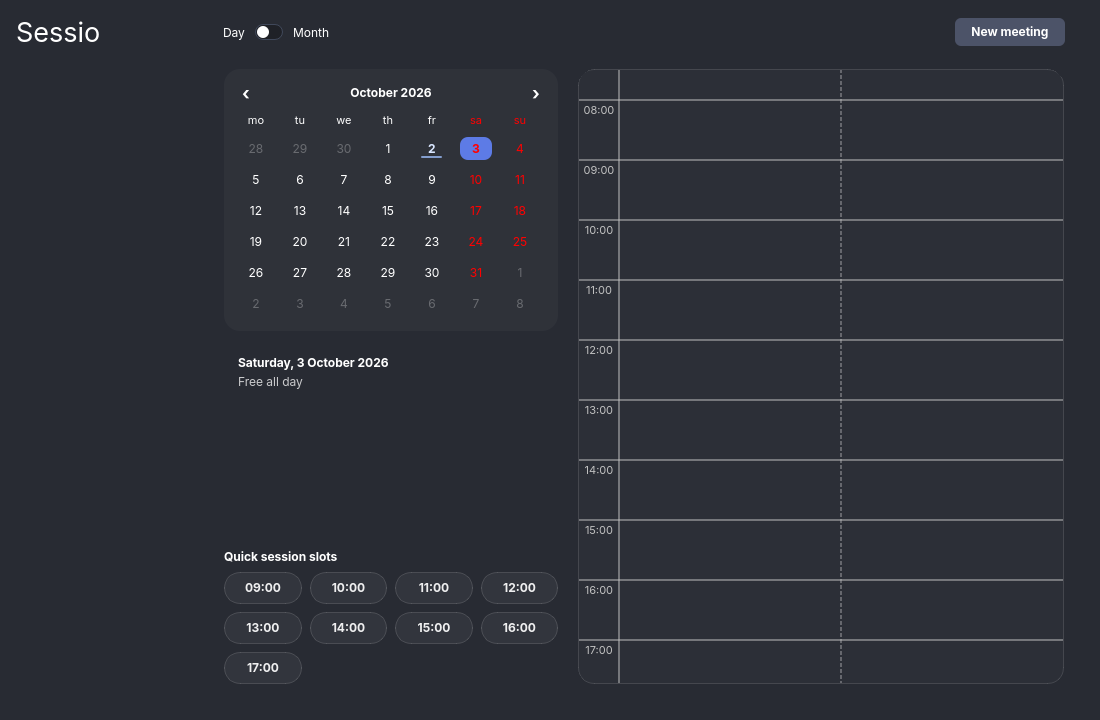
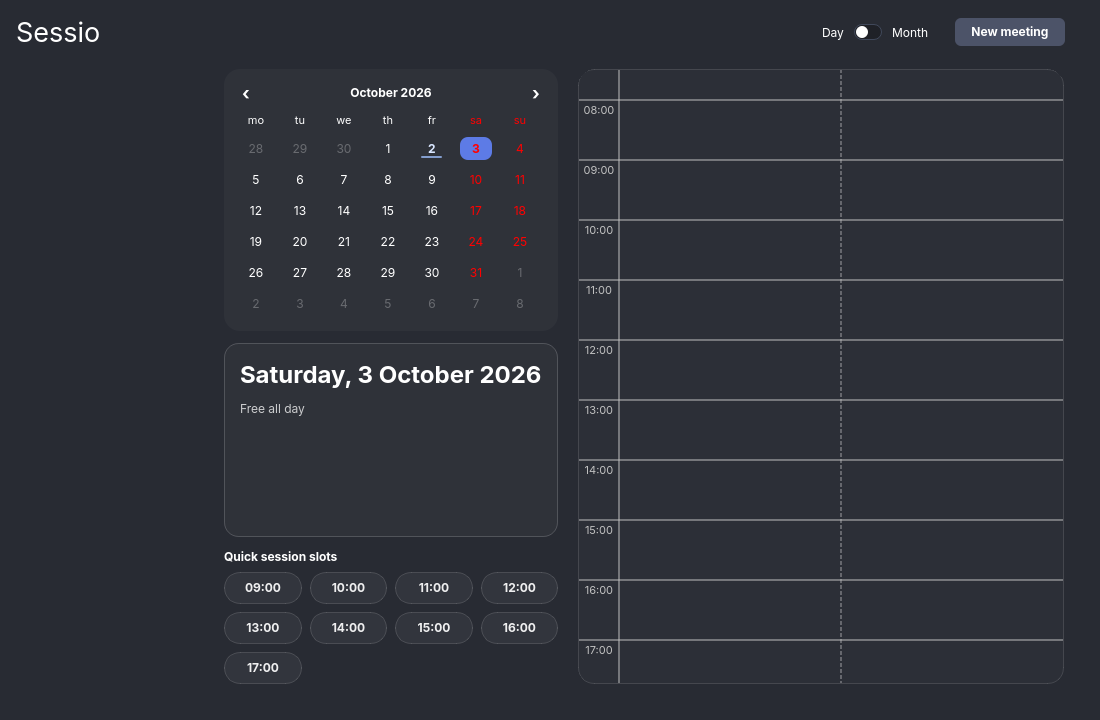
Fix live-app layout defects: header group, one info card, month grid height (#102)
Header controls sit together at the right of the top row; month names are
three letters; the month grid fills the centre height (rows 112-260 px) and
its weekday labels align with the day numbers; day summary and meeting
inspector share one bordered card with the selected date as heading.

Changed region(s): [[0.2164, 0.4889, 0.4945, 0.5806], [0.1855, 0.0306, 0.3091, 0.0611], [0.7418, 0.0306, 0.8345, 0.0611]]

diff --git a/src/pages/event_info_page/event_info.cpp b/src/pages/event_info_page/event_info.cpp
@@ -9,6 +9,7 @@
 #include <algorithm>
 #include <QIcon>
 #include <QMessageBox>
+#include <QPainter>
 #include <QSize>
 #include <QTextCharFormat>
 #include <QTimeZone>
@@ -20,6 +21,23 @@
 Q_LOGGING_CATEGORY(logEventInfo, "pcm.EventInfo")
 
 namespace {
+// Rounded bordered card; colours come from the live palette.
+class InfoPanelCard final : public QWidget {
+public:
+  using QWidget::QWidget;
+
+protected:
+  void paintEvent(QPaintEvent *) override {
+    QPainter painter(this);
+    painter.setRenderHint(QPainter::Antialiasing);
+    auto border = palette().color(QPalette::Text);
+    border.setAlpha(46);
+    painter.setPen(QPen(border, 1));
+    painter.setBrush(QColor(255, 255, 255, 8));
+    painter.drawRoundedRect(QRectF(rect()).adjusted(0.5, 0.5, -0.5, -0.5), 14, 14);
+  }
+};
+
 bool sameOccurrence(const DuckEvent &a, const DuckEvent &b) {
   if (a.series_id && a.original_occurrence_start) {
     return a.series_id == b.series_id &&
@@ -143,6 +161,10 @@ QEventInfoPage::QEventInfoPage(QTimelineModel *model,
   auto *header = new QHBoxLayout(mHeaderControls);
   header->setContentsMargins(0, 0, 0, 0);
   header->setSpacing(10);
+  // Fill the host row and push the group to its right edge: the stretch comes
+  // first, so Day|Month and "New meeting" stay together.
+  mHeaderControls->setSizePolicy(QSizePolicy::Expanding, QSizePolicy::Preferred);
+  header->addStretch(1);
   header->addWidget(new QLabel(tr("Day"), mHeaderControls));
   mViewSwitch = new oclero::qlementine::Switch(mHeaderControls);
   mViewSwitch->setObjectName(QStringLiteral("calendarViewSwitch"));
@@ -151,7 +173,7 @@ QEventInfoPage::QEventInfoPage(QTimelineModel *model,
   mViewSwitch->setSizePolicy(QSizePolicy::Fixed, QSizePolicy::Fixed);
   header->addWidget(mViewSwitch);
   header->addWidget(new QLabel(tr("Month"), mHeaderControls));
-  header->addStretch(1);
+  header->addSpacing(16);
   mCreateEventButton = new QPushButton(tr("New meeting"), mHeaderControls);
   mCreateEventButton->setObjectName(QStringLiteral("newCalendarEvent"));
   mCreateEventButton->setIcon(QIcon(":/icons/calendar-plus-solid-full.svg"));
@@ -191,15 +213,26 @@ QEventInfoPage::QEventInfoPage(QTimelineModel *model,
                                               mMonthPicker->minimumHeight()));
   leftLayout->addWidget(mCalendarCardStack);
 
-  mInfoStack = new QStackedWidget(left);
+  // One bordered card hosts both pages (day info / meeting info).
+  auto *infoCard = new InfoPanelCard(left);
+  infoCard->setObjectName(QStringLiteral("infoPanelCard"));
+  infoCard->setSizePolicy(QSizePolicy::Expanding, QSizePolicy::Expanding);
+  auto *infoCardLayout = new QVBoxLayout(infoCard);
+  infoCardLayout->setContentsMargins(16, 16, 16, 16);
+  mInfoStack = new QStackedWidget(infoCard);
   mInfoStack->setObjectName(QStringLiteral("calendarInfoStack"));
-  auto *summaryPage = new QWidget(mInfoStack);
-  auto *summaryLayout = new QVBoxLayout(summaryPage);
-  summaryLayout->setContentsMargins(0, 0, 0, 0);
-  mDaySummaryWidget = new DaySummaryWidget(summaryPage);
-  summaryLayout->addWidget(mDaySummaryWidget);
-  summaryLayout->addStretch(1);
-  mInfoStack->addWidget(summaryPage);
+  infoCardLayout->addWidget(mInfoStack);
+  auto *summaryScroll = new QScrollArea(mInfoStack);
+  summaryScroll->setObjectName(QStringLiteral("calendarDayInfoScroll"));
+  summaryScroll->setWidgetResizable(true);
+  summaryScroll->setFrameShape(QFrame::NoFrame);
+  summaryScroll->setHorizontalScrollBarPolicy(Qt::ScrollBarAlwaysOff);
+  mDaySummaryWidget = new DaySummaryWidget(summaryScroll);
+  summaryScroll->setWidget(mDaySummaryWidget);
+  // The card provides the background; scroll viewports must not paint their own.
+  summaryScroll->viewport()->setAutoFillBackground(false);
+  mDaySummaryWidget->setAutoFillBackground(false);
+  mInfoStack->addWidget(summaryScroll);
   mInspectorScroll = new QScrollArea(mInfoStack);
   mInspectorScroll->setObjectName(QStringLiteral("calendarInspectorScroll"));
   mInspectorScroll->setWidgetResizable(true);
@@ -212,8 +245,10 @@ QEventInfoPage::QEventInfoPage(QTimelineModel *model,
   mInspectorLayout->setSpacing(8);
   mInspectorLayout->addStretch(1);
   mInspectorScroll->setWidget(inspectorContent);
+  mInspectorScroll->viewport()->setAutoFillBackground(false);
+  inspectorContent->setAutoFillBackground(false);
   mInfoStack->addWidget(mInspectorScroll);
-  leftLayout->addWidget(mInfoStack, 1);
+  leftLayout->addWidget(infoCard, 1);
   mQuickSlotsWidget = new QuickSlotsWidget(left);
   leftLayout->addWidget(mQuickSlotsWidget);
   body->addWidget(left);

diff --git a/test/calendar_layout_tests.cpp b/test/calendar_layout_tests.cpp
@@ -20,6 +20,7 @@
 #include <QScrollArea>
 #include <QStackedWidget>
 #include <QLabel>
+#include <QHBoxLayout>
 #include <QImage>
 #include "rounded_calendar_widget.h"
 #include "month_picker_widget.h"
@@ -627,6 +628,64 @@ TEST_F(CalendarLayoutTest, FirstMeetingOfTheDayIsScrolledIntoView) {
   ASSERT_GT(bar->maximum(), 0);
   EXPECT_LE(bar->value(), 16 * 60);
   EXPECT_GE(bar->value() + view->viewport()->height(), 16 * 60);
+}
+TEST_F(CalendarLayoutTest, HeaderControlsSitTogetherAtTheRightOfTheirHost) {
+  QEventInfoPage page(model.get(), nullptr, nullptr);
+  QWidget host;
+  auto *layout = new QHBoxLayout(&host);
+  layout->setContentsMargins(19, 0, 19, 0);
+  page.headerControls()->setParent(&host);
+  layout->addWidget(page.headerControls());
+  host.resize(1000, 40);
+  host.show();
+  QApplication::processEvents();
+  auto *toggle = page.headerControls()->findChild<QWidget *>("calendarViewSwitch");
+  auto *button = page.headerControls()->findChild<QWidget *>("newCalendarEvent");
+  const auto toggleLeft = toggle->mapTo(&host, QPoint(0, 0)).x();
+  const auto buttonRight = button->mapTo(&host, QPoint(button->width(), 0)).x();
+  EXPECT_GE(buttonRight, host.width() - 19 - 2);
+  EXPECT_GT(toggleLeft, host.width() - 450); // right next to the button, not at the left
+}
+TEST_F(CalendarLayoutTest, MonthPickerUsesConsistentThreeLetterNames) {
+  MonthPickerWidget picker;
+  for (auto *tile : picker.findChildren<QToolButton *>("monthPickerTile")) {
+    EXPECT_EQ(tile->text().size(), 3) << tile->text().toStdString();
+    EXPECT_FALSE(tile->text().endsWith('.'));
+  }
+}
+TEST_F(CalendarLayoutTest, InfoPanelIsOneCardWithTheSelectedDateAsHeading) {
+  QEventInfoPage page(model.get(), nullptr, nullptr);
+  page.resize(1275, 900);
+  page.show();
+  page.setMonthView(true);
+  QApplication::processEvents();
+  auto *card = page.findChild<QWidget *>("infoPanelCard");
+  auto *info = page.findChild<QStackedWidget *>("calendarInfoStack");
+  ASSERT_NE(card, nullptr);
+  EXPECT_TRUE(card->isAncestorOf(info));
+  auto *heading = page.findChild<QLabel *>("daySummaryDate");
+  ASSERT_NE(heading, nullptr);
+  const auto date = QDate::currentDate().addDays(1);
+  auto *month = page.findChild<MonthCalendarWidget *>();
+  emit month->dateSelected(date);
+  auto expected = QLocale().toString(date, QLocale::LongFormat);
+  expected[0] = expected.at(0).toUpper();
+  EXPECT_EQ(heading->text(), expected);
+  page.findChild<QToolButton *>("monthPickerNextYear")->click();
+  for (auto *tile : page.findChildren<QToolButton *>("monthPickerTile"))
+    if (tile->property("calendarMonth").toInt() == 5) tile->click();
+  EXPECT_TRUE(heading->text().contains(QLocale().standaloneMonthName(5, QLocale::LongFormat)) ||
+              heading->text().contains(QLocale().monthName(5, QLocale::LongFormat)));
+}
+TEST_F(CalendarLayoutTest, MonthGridFillsTheCentreHeight) {
+  QEventInfoPage page(model.get(), nullptr, nullptr);
+  page.resize(1275, 1290);
+  page.show();
+  page.setMonthView(true);
+  QApplication::processEvents();
+  auto *month = page.findChild<MonthCalendarWidget *>();
+  auto *centre = page.findChild<QStackedWidget *>("calendarCenterStack");
+  EXPECT_GE(month->height(), centre->height() - 4);
 }
 } // namespace
 int main(int argc, char **argv) {

diff --git a/src/pages/event_info_page/day_summary_widget.cpp b/src/pages/event_info_page/day_summary_widget.cpp
@@ -8,20 +8,16 @@
 
 DaySummaryWidget::DaySummaryWidget(QWidget *parent) : QWidget(parent) {
   setObjectName("daySummaryCard");
-  setStyleSheet(
-      "#daySummaryCard {"
-      " background: rgba(255, 255, 255, 0.05);"
-      " border: 1px solid rgba(255, 255, 255, 0.10);"
-      " border-radius: 14px;"
-      "}");
-
   auto *layout = new QVBoxLayout(this);
-  layout->setContentsMargins(14, 12, 14, 12);
-  layout->setSpacing(4);
+  layout->setContentsMargins(0, 0, 0, 0);
+  layout->setSpacing(6);
 
   mDateLabel = new QLabel(this);
+  mDateLabel->setObjectName("daySummaryDate");
+  mDateLabel->setWordWrap(true);
   QFont dateFont = mDateLabel->font();
   dateFont.setBold(true);
+  dateFont.setPointSize(18);
   mDateLabel->setFont(dateFont);
 
   mCountsLabel = new QLabel(this);
@@ -34,6 +30,7 @@ DaySummaryWidget::DaySummaryWidget(QWidget *parent) : QWidget(parent) {
   mFreeWindowLabel->setStyleSheet("color: rgba(255, 255, 255, 0.65);");
 
   layout->addWidget(mDateLabel);
+  layout->addSpacing(6);
   layout->addWidget(mCountsLabel);
   layout->addWidget(mBusyLabel);
   layout->addWidget(mNextSessionLabel);
@@ -56,7 +53,11 @@ void DaySummaryWidget::clearMiniList() {
 void DaySummaryWidget::setSummary(const pcm::recurrence::DaySummary &summary) {
   clearMiniList();
 
-  mDateLabel->setText(QLocale().toString(summary.date, QLocale::LongFormat));
+  auto heading = QLocale().toString(summary.date, QLocale::LongFormat);
+  if (!heading.isEmpty()) {
+    heading[0] = heading.at(0).toUpper(); // "пятница" -> "Пятница"
+  }
+  mDateLabel->setText(heading);
 
   if (!summary.hasSessions) {
     mCountsLabel->setText(tr("Free all day"));

diff --git a/src/pages/event_info_page/qevent_details_widget.cpp b/src/pages/event_info_page/qevent_details_widget.cpp
@@ -504,7 +504,7 @@ void QEventDetailsWidget::setInspectorMode(bool enabled) {
       button->setSizePolicy(QSizePolicy::Expanding, QSizePolicy::Fixed);
       button->setMinimumHeight(32);
     }
-    mUI->verticalLayout->setContentsMargins(16, 16, 16, 16);
+    mUI->verticalLayout->setContentsMargins(0, 0, 0, 0);
     summary->setSpacing(4);
     static_cast<QBoxLayout *>(mMeetingActionsWidget->layout())->setDirection(QBoxLayout::TopToBottom);
     // Series actions can have long translated labels. Stacking keeps all of
@@ -574,20 +574,6 @@ void QEventDetailsWidget::refreshInspector() {
   // The main action gets the primary look.
   mCopyMeetingInviteButton->setDefault(event.is_online);
   mUI->mChangeButton->setDefault(!event.is_online);
-}
-
-void QEventDetailsWidget::paintEvent(QPaintEvent *event) {
-  QWidget::paintEvent(event);
-  if (!mInspectorMode) {
-    return;
-  }
-  QPainter painter(this);
-  painter.setRenderHint(QPainter::Antialiasing);
-  auto border = palette().color(QPalette::Text);
-  border.setAlpha(46);
-  painter.setPen(QPen(border, 1));
-  painter.setBrush(QColor(255, 255, 255, 8));
-  painter.drawRoundedRect(QRectF(rect()).adjusted(0.5, 0.5, -0.5, -0.5), 14, 14);
 }
 
 void QEventDetailsWidget::initConnections() {

diff --git a/src/pages/event_info_page/month_picker_widget.cpp b/src/pages/event_info_page/month_picker_widget.cpp
@@ -100,6 +100,15 @@ protected:
     painter.drawText(rect(), Qt::AlignCenter, text());
   }
 };
+
+// Consistent three-letter names ("Sep", not "Sept"; "сен", not "сент.").
+QString shortMonthName(const QLocale &locale, const int month) {
+  auto name = locale.standaloneMonthName(month, QLocale::ShortFormat);
+  if (name.endsWith(QLatin1Char('.')) || name.size() != 3) {
+    name = locale.standaloneMonthName(month, QLocale::LongFormat).left(3);
+  }
+  return name.isEmpty() ? name : name.left(1).toUpper() + name.mid(1);
+}
 } // namespace
 
 MonthPickerWidget::MonthPickerWidget(QWidget *parent) : QWidget(parent) {
@@ -163,7 +172,7 @@ void MonthPickerWidget::refreshLabels() {
   const auto today = QDate::currentDate();
   for (int month = 1; month <= 12; ++month) {
     auto *tile = static_cast<MonthTile *>(mTiles[month - 1]);
-    const auto name = locale.standaloneMonthName(month, QLocale::ShortFormat);
+    const auto name = shortMonthName(locale, month);
     tile->setText(name);
     tile->setAccessibleName(locale.standaloneMonthName(month, QLocale::LongFormat) +
                             QLatin1Char(' ') + QString::number(mYear));

diff --git a/src/pages/event_info_page/month_calendar_widget.cpp b/src/pages/event_info_page/month_calendar_widget.cpp
@@ -37,7 +37,7 @@ QString eventLabel(const DuckEvent &event) {
 
 // Layout metrics (device independent pixels).
 constexpr int kMinRowHeight = 112;
-constexpr int kMaxRowHeight = 160;
+constexpr int kMaxRowHeight = 260;
 constexpr int kChipHeight = 38; // two lines: time, then title
 constexpr int kMoreHeight = 18;
 constexpr int kChipGap = 3;
@@ -61,7 +61,9 @@ protected:
     f.setPointSizeF(std::max(7.0, f.pointSizeF() - 1.0));
     painter.setFont(f);
     painter.setPen(withAlpha(palette().color(QPalette::Text), 140));
-    painter.drawText(rect(), Qt::AlignCenter, text());
+    // Left edge matches the day numbers inside the cells below.
+    painter.drawText(rect().adjusted(kCellPadding + 6, 0, 0, 0),
+                     Qt::AlignLeft | Qt::AlignVCenter, text());
   }
 };
 

diff --git a/test/month_calendar_tests.cpp b/test/month_calendar_tests.cpp
@@ -360,7 +360,7 @@ TEST(MonthCalendarTest, RowHeightIsCappedInATallWindow) {
   ASSERT_EQ(dates.size(), 35);
   for (auto *button : dates) {
     EXPECT_GE(button->parentWidget()->height(), 96);
-    EXPECT_LE(button->parentWidget()->height(), 160);
+    EXPECT_LE(button->parentWidget()->height(), 260);
   }
   EXPECT_LT(widget.height(), 3000);
 }

diff --git a/src/pages/event_info_page/qevent_details_widget.h b/src/pages/event_info_page/qevent_details_widget.h
@@ -184,9 +184,6 @@ private slots:
   void onSuggestFreeSlotClicked();
   void onCopyMeetingPasscodeClicked();
 
-protected:
-  void paintEvent(QPaintEvent *event) override;
-
 private:
   void refreshInspector();
   void applySeriesCallState();

diff --git a/docs/verification/102/README.md b/docs/verification/102/README.md
@@ -19,8 +19,14 @@
 - Месячная сетка: число выбранного дня видно (плашка-круг, ранее текст скрывался
   у checked-кнопки), сегодня — кольцо, соседние дни приглушены, плашки событий
   (точка, время, название; акцент для рабочих, нейтральный для личных),
-  тонкие линии сетки, строки 112–160 px сверху вниз без гигантских ячеек.
+  тонкие линии сетки, строки 112–260 px.
 - Дневная шкала прокручивается к первой встрече дня (или 08:00), если она не видна.
+- Правки после проверки живого приложения: группа «День / Switch / Месяц» и «New meeting»
+  вместе у правого края верхней строки; названия месяцев в выборе месяца единообразно
+  из 3 букв («Sep», «Сен»); месячная сетка заполняет высоту центра (строки 112–260 px,
+  низ сетки выровнен с низом левой колонки); сводка дня и инспектор встречи лежат
+  в ОДНОЙ карточке (`infoPanelCard`), заголовок дня — выбранная дата; подписи дней недели
+  выровнены по левому краю с номерами дней.
 - Версия 0.2.9, запись в `CHANGELOG.md` обновлена.
 
 ## Тесты
@@ -28,9 +34,9 @@
 Сборка: `cmake --build build-release --parallel 4` (все цели).
 Запуск: `QT_QPA_PLATFORM=offscreen scripts/run-dev-isolated.sh /usr/bin/ctest --test-dir build-release --output-on-failure -j1`.
 
-- Полный прогон: **532/532 пройдено, 0 упало** (1 тест пропущен самим набором:
+- Полный прогон: **536/536 пройдено, 0 упало** (1 тест пропущен самим набором:
   `ScheduleSyncTest.InteroperatesWithRealTokenBackendWhenConfigured` — нужен реальный backend).
-- Целевой набор (`CalendarLayoutTest|QEventDetailsWidgetTest|MonthProjectionTest|MonthCalendarTest|TimelineSeriesTest|RecurrenceUtilsTest|SeriesCall|SeriesTimezone|Timeline|EventInfo`): 118/118.
+- Целевой набор (`CalendarLayoutTest|QEventDetailsWidgetTest|MonthProjectionTest|MonthCalendarTest|TimelineSeriesTest|RecurrenceUtilsTest|SeriesCall|SeriesTimezone|Timeline|EventInfo`): 122/122.
 - Новые тесты: число выбранного дня (пиксельная проверка кружка и глифа), ограничение высоты
   строки, страницы карточки и центра по Switch, выбор месяца и стрелки года, переключение
   «сводка дня / инспектор» (выбор, «Back to day», удаление, выбор дня), метки полей и
@@ -57,6 +63,7 @@
 | day-1100x720.png, day-selected-1100x720.png | День 1100x720 | инспектор прокручивается внутри панели |
 | day-dense.png | Плотный день | автопрокрутка к первой встрече (08:00) |
 | month-next-day.png | Месяц, выбрана другая дата | сводка дня |
+| month-1500x900-ru.png, month-selected-1500x900-ru.png | Месяц, русская локаль | «Сен», «Окт» и т. д. единообразно; заголовок дня с заглавной буквы |
 | edit-dialog.png | Диалог редактирования | без изменений |
 
 ## Сравнение с эталонами (`docs/design/calendar-layout/*.png`) и отличия
@@ -72,6 +79,7 @@
   перерабатывалась; добавлена только автопрокрутка.
 - При 900 px высоты кнопки Open/Edit инспектора уходят ниже видимой области панели
   (прокручивается внутри); при 1395 px видны целиком.
+- Верхняя строка в снимках — имитация `pageCustomWidgetHost` (те же поля и layout); реальное `MainWindow` offscreen не запускалось (тянет страницу звонков).
 - Окно 1100x720: ячейки месяца ~60 px, названия усечены до 3-4 символов.
 - Цвета выбранного дня/месяца в карточках (RoundedCalendarWidget, MonthPickerWidget) — исходная
   фиксированная синяя плашка, не палитра темы.
